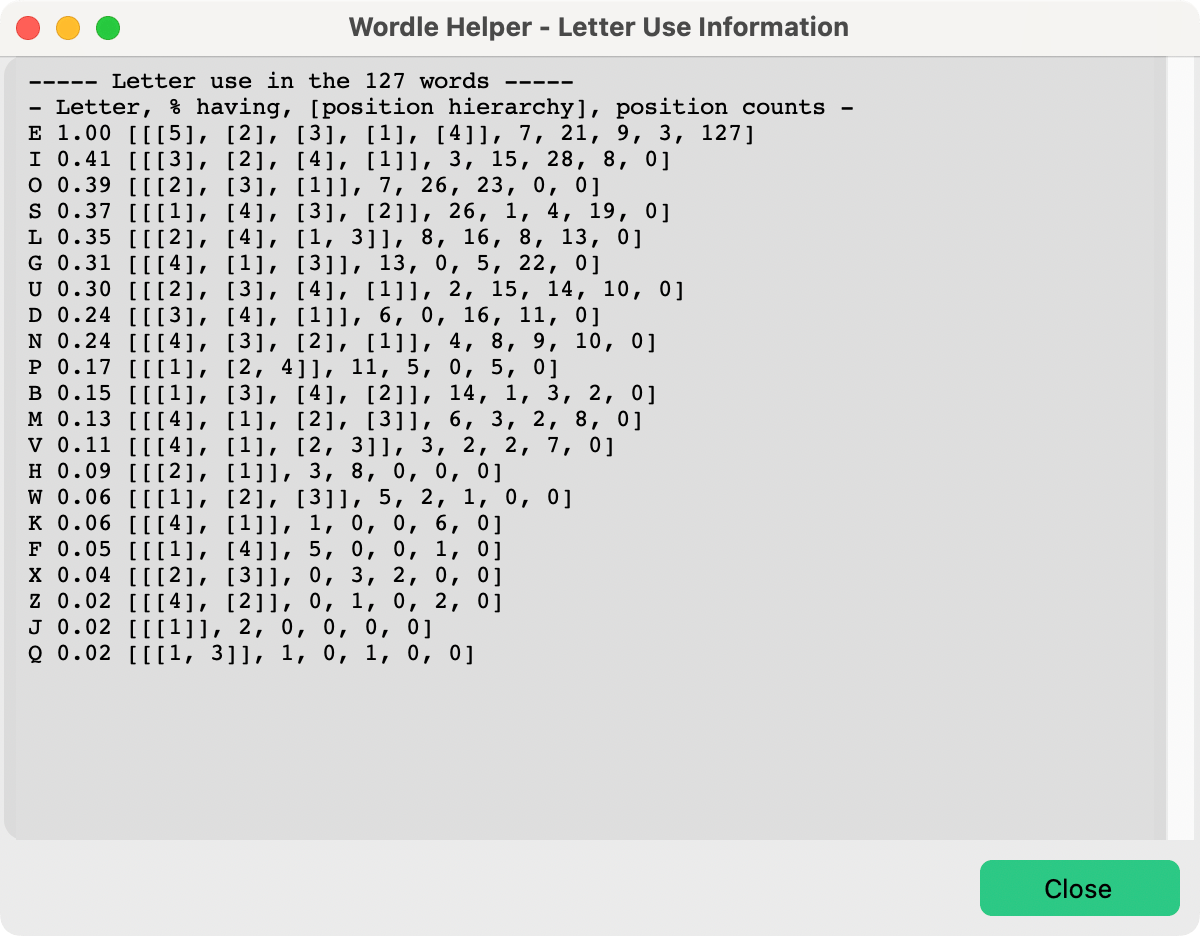
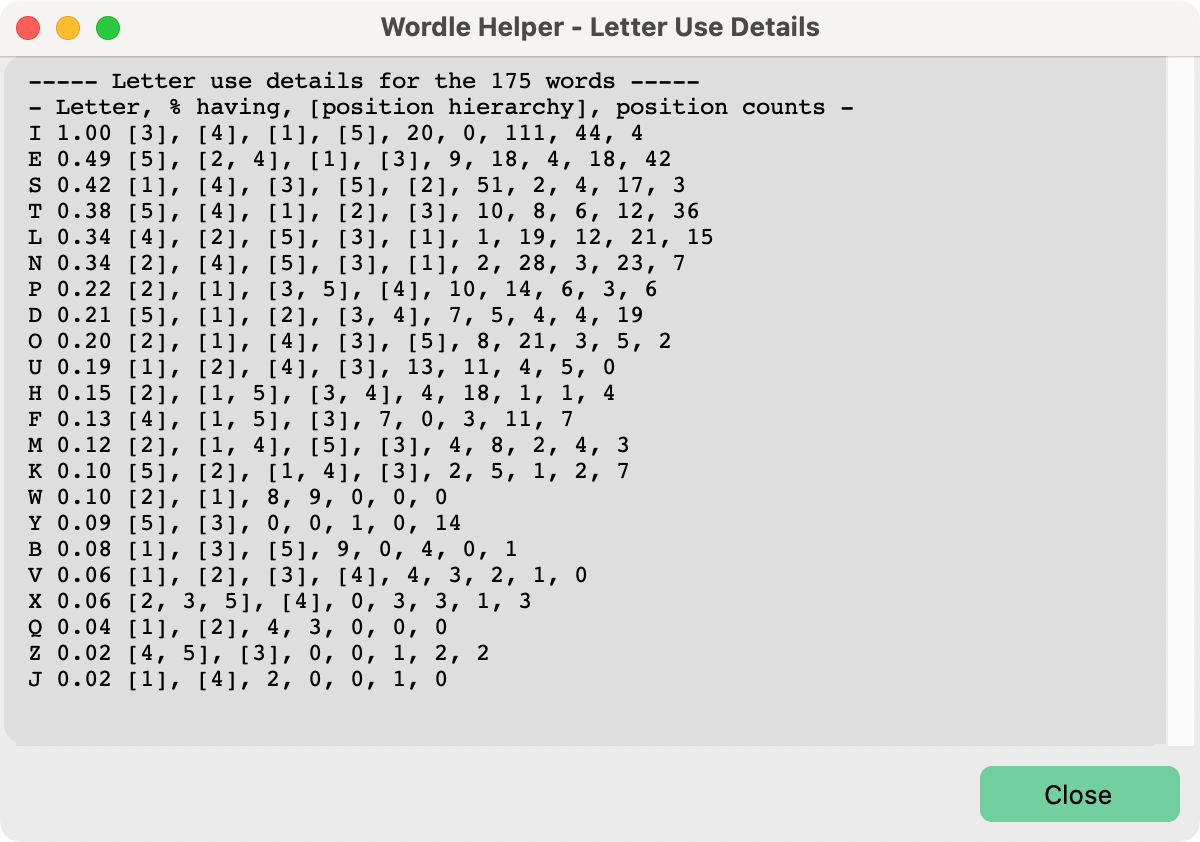
improvement to letter use display its documentation

Changed region(s): [[0.0, 0.0, 0.7092, 0.8337], [0.8017, 0.8955, 0.9867, 0.9881]]

diff --git a/pywt.py b/pywt.py
@@ -387,15 +387,16 @@ class Pywordlemainwindow(ctk.CTk):
                 comment = " (" + str(len(max_rankers)) + " highest genetic rank selected)"
                 if self.meta_lr:
                     datawnd = hlp.RptWnd("Data")
-                    datawnd.title("Wordle Helper - Letter Use Information")
+                    datawnd.title("Wordle Helper - Letter Use Details")
                     gen_tally_dict = hlp.dict_gen_tally(gen_tally, len(the_word_list))
                     use_details_dict = hlp.dict_ltr_frq_data_for_words_list(list(the_word_list.keys()))
-                    rptl = f"----- Letter use in the {len(the_word_list)} words -----\n"
+                    rptl = f"----- Letter use details for the {len(the_word_list)} words -----\n"
                     datawnd.verbose_data.insert(tk.END, rptl)
                     rptl = "- Letter, % having, [position hierarchy], position counts -\n"
                     datawnd.verbose_data.insert(tk.END, rptl)
                     for ltr, lper in gen_tally_dict.items():
-                        rptl = f"{ltr.upper()} {round(lper, 2):.2f} {use_details_dict[ltr]}\n"
+                        use_details = str(use_details_dict[ltr]).replace('[[[','[').replace(']]',']')[:-1]
+                        rptl = f"{ltr.upper()} {round(lper, 2):.2f} {use_details}\n"
                         datawnd.verbose_data.insert(tk.END, rptl)
                     self.meta_lr = False
 

diff --git a/README.md b/README.md
@@ -161,7 +161,8 @@
   * % (fraction) of words in the list that have the letter
   * Letter position hierarchy in order of position most to position least
   * Letter position counts in order from position 1 to position 5
-  
+  * Example: **Z 0.02 [4, 5], [3], 0, 0, 1, 2, 2** means the letter Z is in 2% of the words. The 4th and 5th position share the most common position location within words containing Z. The 3rd position is the next common position. Z did not occur in the missing positions numbers 1 and 2. The last five numbers not [ ] bracketed are the counts for Z at each position. The first two 0s are the 1st and 2nd positions. No Zs found there. The 1 is the 3rd position. 1 Z was found as the 3rd letter in a word. 2 Zs each were found in the next two 4th and 5th positions. Those Zs are found as the last and second to last letters in the words. The 4th and 5th position share the use same use count. That count is also most common Z use count. This is why 4 and 5 are shown as [4, 5] and also listed before [3].
+
 ### Wordle Play Strategies
 
 * Discover Wordle play strategies yourself with the Helper's assistance. That was the reason for creating this Helper.
